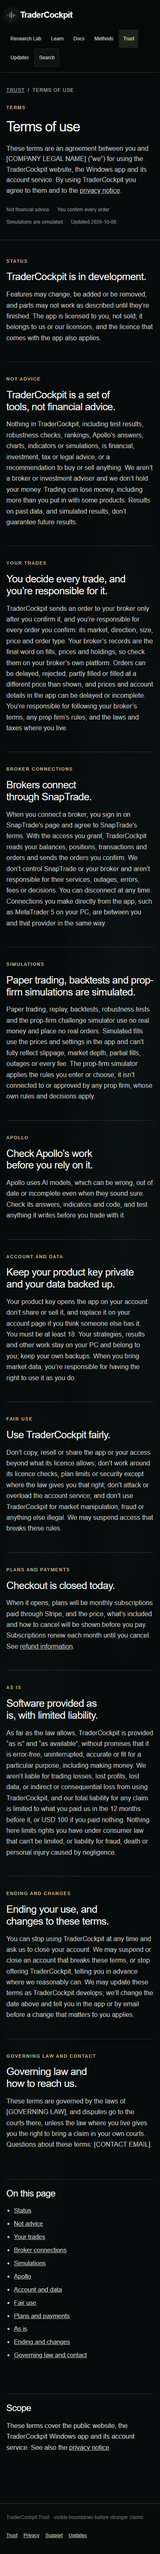
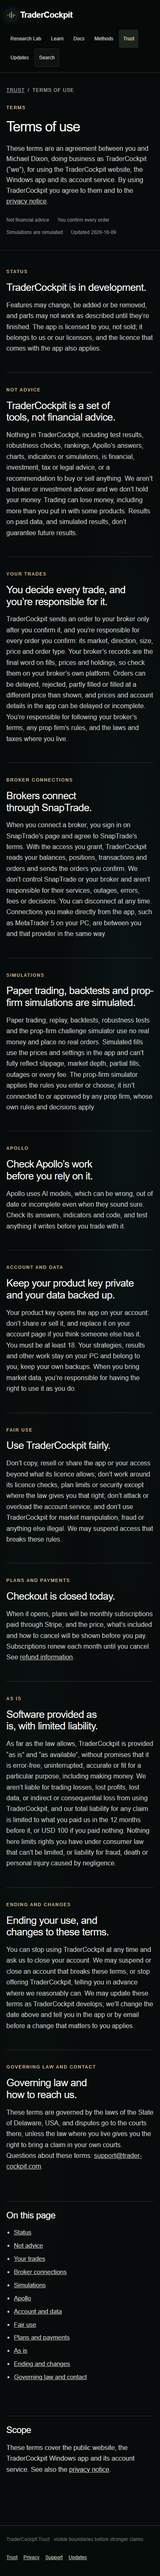
Legal pages: Michael Dixon d/b/a TraderCockpit, Delaware law, support address
Owner answers from 2026-10-09: the maker is Michael Dixon, doing
business as TraderCockpit, until an LLC is formed (one phrase to swap);
governing law is the State of Delaware, USA; contact is
support@trader-cockpit.com. Both pages dated 2026-10-09.

Changed region(s): [[0.0308, 0.0311, 0.9538, 0.9648], [0.5846, 0.9337, 0.6769, 0.9648]]

diff --git a/docs/trust/privacy.html b/docs/trust/privacy.html
@@ -1,7 +1,7 @@
 <!doctype html>
 <html lang="en"><head><meta charset="utf-8"><meta name="viewport" content="width=device-width,initial-scale=1"><link rel="icon" href="data:,"><title>Privacy Notice — TraderCockpit</title><meta name="description" content="What the TraderCockpit website, Windows app and account service collect, where it goes, and the choices you have."><link rel="canonical" href="https://trader-cockpit.com/trust/privacy.html"><link rel="stylesheet" href="../assets/site-v2.css"><link data-reference-shell="style" rel="stylesheet" href="../assets/reference-site/content.css" media="screen"><meta data-reference-shell="theme" name="theme-color" content="#080b0b"><script data-reference-shell="analytics" type="module" src="../assets/analytics.mjs"></script></head>
 <body data-reference-content="true"><a class="skip-link" href="#main">Skip to content</a><nav class="site-nav" aria-label="Primary"><div class="nav-inner"><a class="brand" href="../index.html"><span class="brand-mark" aria-hidden="true"></span>TraderCockpit</a><div class="nav-links"><a href="../research-lab.html">Research Lab</a><a href="../learn/">Learn</a><a href="../docs/">Docs</a><a href="../methods/">Methods</a><a href="./" aria-current="page">Trust</a><a href="../updates/">Updates</a></div></div></nav>
-<main id="main" tabindex="-1"><section class="article-hero"><div class="shell article-hero-inner"><div class="breadcrumb"><a href="./">Trust</a><span>/</span><span>Site privacy</span></div><span class="eyebrow">Privacy</span><h1>Your privacy at TraderCockpit</h1><p>This page explains what the TraderCockpit website, the Windows app and the account service collect, where it goes, and when those connections occur. [COMPANY LEGAL NAME] (&ldquo;we&rdquo;) makes TraderCockpit.</p><div class="article-meta"><span>Same-origin search</span><span>No email capture</span><span>YouTube only after action</span><span>Your work stays on your PC</span><span>Updated 2026-10-08</span></div></div></section>
+<main id="main" tabindex="-1"><section class="article-hero"><div class="shell article-hero-inner"><div class="breadcrumb"><a href="./">Trust</a><span>/</span><span>Site privacy</span></div><span class="eyebrow">Privacy</span><h1>Your privacy at TraderCockpit</h1><p>This page explains what the TraderCockpit website, the Windows app and the account service collect, where it goes, and when those connections occur. TraderCockpit is made by Michael Dixon, doing business as TraderCockpit (&ldquo;we&rdquo;).</p><div class="article-meta"><span>Same-origin search</span><span>No email capture</span><span>YouTube only after action</span><span>Your work stays on your PC</span><span>Updated 2026-10-09</span></div></div></section>
 <section class="section"><div class="shell"><div class="card-grid"><article class="depth-card"><span class="kicker">Browser storage</span><h2>Optional research notes use this browser's local storage.</h2><p>Ordinary browsing does not set cookies or analytics storage. The research-notes tool reads <code>localStorage</code> so it can restore a saved copy and writes only when you choose “Save on this device.” Those notes are not sent to a server by that tool. Clearing browser data can remove the saved copy. Normal page and asset requests still reach the site's hosting service.</p></article><article class="depth-card"><span class="kicker">Search</span><h2>Help search uses a same-origin static index.</h2><p>Search loads <code>search-index.v1.json</code> from this site. In-app search handoff uses a URL fragment so the query is not sent to a third-party search provider.</p></article><article class="depth-card"><span class="kicker">Analytics</span><h2>Plausible runs only when configured.</h2><p>Analytics is currently pending an operator account. When active, Plausible receives page views, referral and UTM information and Guide Click events to measure visits and onward reading. It does not collect an email address through this site. Referral attribution is unavailable until analytics is active.</p></article><article class="depth-card"><span class="kicker">Video</span><h2>YouTube is optional and click-to-load.</h2><p>No YouTube player is requested on ordinary lesson load. Choosing “Load video from YouTube” creates a privacy-enhanced <code>youtube-nocookie.com</code> embed; following the research-channel link also leaves this site for YouTube.</p></article></div></div></section>
-<section class="section"><div class="shell article-layout"><article class="article-main"><section class="article-section" id="waitlist-fields"><span class="kicker">Email capture</span><h2>This site has no signup form.</h2><p>Public email-capture forms and signup tracking have been retired. Ordinary browsing makes no requests to Kit. Existing subscriber records have not been deleted by this website change.</p><a class="deep-link" href="../learn/">Read the guides →</a></section><section class="article-section" id="app-data"><span class="kicker">The Windows app</span><h2>Your work stays on your PC.</h2><p>The Windows app and account service are in development; the sections below describe how they are built to handle your information, and this notice will be updated before release if that changes.</p><p>Strategies, Builder and Retester results, robustness tests, charts and layouts, data files and market history, paper trading accounts, your journal and your Apollo conversations are stored on your PC. We don&rsquo;t upload them and can&rsquo;t see them. The app has no usage analytics or tracking and doesn&rsquo;t send crash reports. If you ask for help, the app can make a support file on your PC that you read before deciding to send it; it holds app and account status, not your strategies, data or passwords.</p></section><section class="article-section" id="account"><span class="kicker">Your account</span><h2>Google sign-in on the account page; a product key on the desktop.</h2><p>You create an account on the account page by signing in with Google. We ask Google only for your email address and Google account ID. The desktop app never uses your Google sign-in. The account page sets two sign-in cookies, never used for tracking: one for ten minutes during sign-in, and one that keeps you signed in for at most 24 hours.</p><p>From the account page you create a product key and type it into the app once. The app keeps it on your PC, encrypted by Windows, and sends it only to our account service. The service stores a one-way fingerprint of the key and a masked copy, so it can recognise the key but not read it back. Replacing the key stops the old one working.</p></section><section class="article-section" id="apollo"><span class="kicker">Apollo</span><h2>Apollo sends your question to OpenRouter.</h2><p>Apollo&rsquo;s answers come from AI models reached through OpenRouter. The app sends the current conversation and anything you choose to attach, such as a file, image, web page or strategy details, and not the rest of your work. With your plan&rsquo;s credit, requests go through our account service, or straight from the app with a spending-limited key issued to your account; OpenRouter gets a one-way code, not your name or email. With your own OpenRouter key, requests go from your PC straight to OpenRouter under your own account. Voice recordings go to OpenRouter to be turned into text. For requests through our service we keep the reply, model and cost, so a retried request isn&rsquo;t run or charged twice; we don&rsquo;t keep your messages.</p></section><section class="article-section" id="brokers"><span class="kicker">Broker connections</span><h2>Brokers connect through SnapTrade, and orders are sent only when you confirm them.</h2><p>You sign in to your broker on SnapTrade&rsquo;s connection page in your browser, so TraderCockpit never sees your broker password. We register you with SnapTrade under a code made one-way from your account ID, not your name or email. With the access you grant, TraderCockpit reads your accounts&rsquo; balances, positions, transactions and orders and shows them in the app, and sends the orders you confirm on a chart to your broker.</p><p>Our account service keeps an encrypted SnapTrade access secret (encrypted with Google Cloud&rsquo;s key service), which broker and accounts are connected, and their status. Balances, positions, transactions and orders pass through to your PC; we keep only when each update ran, how many items it had and a fingerprint to spot changes. For each order you confirm we keep the order details, your broker&rsquo;s reply and order number, and timing, so an order is never sent twice. You can disconnect at any time. Brokers and data feeds you connect directly, such as MetaTrader 5 on your PC, talk to the app on your PC; any token you enter is encrypted by Windows and sent only to that service.</p></section><section class="article-section" id="payments"><span class="kicker">Payments</span><h2>Stripe handles card payments.</h2><p>Checkout is closed today. When it opens, you enter card details on Stripe&rsquo;s checkout page and we never see your card number. We send Stripe your email address, account ID and the plan or Apollo credit you choose, and keep your Stripe customer and subscription IDs, plan, billing period, Apollo credit, and a record of charges and Apollo usage.</p></section><section class="article-section" id="records"><span class="kicker">Account records</span><h2>What our account service keeps, and who else is involved.</h2><p>The account service runs on Google Cloud in the United States (Cloud Run, with records in Firestore). It keeps your account (email address, Google account ID, date created, plan and access status), the product key fingerprint, sign-in sessions, and the billing, Apollo, broker connection and order records described above. We share information only with the services that run TraderCockpit: Google (hosting, sign-in and storage), Stripe, OpenRouter and the AI model provider it routes to, and SnapTrade and the broker you connect. We don&rsquo;t sell personal information or use it for advertising. These services may process information in the United States, Canada and other countries, under their own privacy terms.</p></section><section class="article-section" id="rights"><span class="kicker">Your choices</span><h2>See, export or delete your account information.</h2><p>You can disconnect brokers, replace your product key and sign out at any time. Account, connection and order records are kept while your account is open. Ask us to close your account and we delete those records, except billing records the law requires us to keep, for as long as it requires. Depending on where you live, you may also ask to see, correct, export or delete the personal information we hold, or object to how we use it: email [CONTACT EMAIL] and we&rsquo;ll reply within one month. TraderCockpit is for adults and isn&rsquo;t meant for anyone under 18.</p></section><section class="article-section" id="third-parties"><span class="kicker">Third-party services</span><h2>Third-party services receive data only when you use them.</h2><p>Configured analytics, loading YouTube, or opening an external link sends a request to that provider. Their own privacy terms then apply.</p></section><section class="article-section" id="changes"><span class="kicker">Changes to this page</span><h2>We will update this notice when the site adds a new data-sharing integration.</h2><p>If TraderCockpit adds a new form processor, analytics service, media host, checkout provider, or similar integration, this page will identify it.</p><a class="deep-link" href="../updates/">Check product updates &rarr;</a></section></article><aside class="article-aside" aria-label="Site privacy guide"><div class="side-panel"><h2>On this page</h2><ul><li><a href="#waitlist-fields">Email capture</a></li><li><a href="#app-data">The Windows app</a></li><li><a href="#account">Your account</a></li><li><a href="#apollo">Apollo</a></li><li><a href="#brokers">Broker connections</a></li><li><a href="#payments">Payments</a></li><li><a href="#records">Account records</a></li><li><a href="#rights">Your choices</a></li><li><a href="#third-parties">Third parties</a></li><li><a href="#changes">Changes to this page</a></li></ul></div><div class="side-panel"><h2>Scope</h2><p class="micro">This page covers the public website, the TraderCockpit Windows app and its account service. See also the <a href="terms.html">terms of use</a>.</p></div></aside></div></section></main>
+<section class="section"><div class="shell article-layout"><article class="article-main"><section class="article-section" id="waitlist-fields"><span class="kicker">Email capture</span><h2>This site has no signup form.</h2><p>Public email-capture forms and signup tracking have been retired. Ordinary browsing makes no requests to Kit. Existing subscriber records have not been deleted by this website change.</p><a class="deep-link" href="../learn/">Read the guides →</a></section><section class="article-section" id="app-data"><span class="kicker">The Windows app</span><h2>Your work stays on your PC.</h2><p>The Windows app and account service are in development; the sections below describe how they are built to handle your information, and this notice will be updated before release if that changes.</p><p>Strategies, Builder and Retester results, robustness tests, charts and layouts, data files and market history, paper trading accounts, your journal and your Apollo conversations are stored on your PC. We don&rsquo;t upload them and can&rsquo;t see them. The app has no usage analytics or tracking and doesn&rsquo;t send crash reports. If you ask for help, the app can make a support file on your PC that you read before deciding to send it; it holds app and account status, not your strategies, data or passwords.</p></section><section class="article-section" id="account"><span class="kicker">Your account</span><h2>Google sign-in on the account page; a product key on the desktop.</h2><p>You create an account on the account page by signing in with Google. We ask Google only for your email address and Google account ID. The desktop app never uses your Google sign-in. The account page sets two sign-in cookies, never used for tracking: one for ten minutes during sign-in, and one that keeps you signed in for at most 24 hours.</p><p>From the account page you create a product key and type it into the app once. The app keeps it on your PC, encrypted by Windows, and sends it only to our account service. The service stores a one-way fingerprint of the key and a masked copy, so it can recognise the key but not read it back. Replacing the key stops the old one working.</p></section><section class="article-section" id="apollo"><span class="kicker">Apollo</span><h2>Apollo sends your question to OpenRouter.</h2><p>Apollo&rsquo;s answers come from AI models reached through OpenRouter. The app sends the current conversation and anything you choose to attach, such as a file, image, web page or strategy details, and not the rest of your work. With your plan&rsquo;s credit, requests go through our account service, or straight from the app with a spending-limited key issued to your account; OpenRouter gets a one-way code, not your name or email. With your own OpenRouter key, requests go from your PC straight to OpenRouter under your own account. Voice recordings go to OpenRouter to be turned into text. For requests through our service we keep the reply, model and cost, so a retried request isn&rsquo;t run or charged twice; we don&rsquo;t keep your messages.</p></section><section class="article-section" id="brokers"><span class="kicker">Broker connections</span><h2>Brokers connect through SnapTrade, and orders are sent only when you confirm them.</h2><p>You sign in to your broker on SnapTrade&rsquo;s connection page in your browser, so TraderCockpit never sees your broker password. We register you with SnapTrade under a code made one-way from your account ID, not your name or email. With the access you grant, TraderCockpit reads your accounts&rsquo; balances, positions, transactions and orders and shows them in the app, and sends the orders you confirm on a chart to your broker.</p><p>Our account service keeps an encrypted SnapTrade access secret (encrypted with Google Cloud&rsquo;s key service), which broker and accounts are connected, and their status. Balances, positions, transactions and orders pass through to your PC; we keep only when each update ran, how many items it had and a fingerprint to spot changes. For each order you confirm we keep the order details, your broker&rsquo;s reply and order number, and timing, so an order is never sent twice. You can disconnect at any time. Brokers and data feeds you connect directly, such as MetaTrader 5 on your PC, talk to the app on your PC; any token you enter is encrypted by Windows and sent only to that service.</p></section><section class="article-section" id="payments"><span class="kicker">Payments</span><h2>Stripe handles card payments.</h2><p>Checkout is closed today. When it opens, you enter card details on Stripe&rsquo;s checkout page and we never see your card number. We send Stripe your email address, account ID and the plan or Apollo credit you choose, and keep your Stripe customer and subscription IDs, plan, billing period, Apollo credit, and a record of charges and Apollo usage.</p></section><section class="article-section" id="records"><span class="kicker">Account records</span><h2>What our account service keeps, and who else is involved.</h2><p>The account service runs on Google Cloud in the United States (Cloud Run, with records in Firestore). It keeps your account (email address, Google account ID, date created, plan and access status), the product key fingerprint, sign-in sessions, and the billing, Apollo, broker connection and order records described above. We share information only with the services that run TraderCockpit: Google (hosting, sign-in and storage), Stripe, OpenRouter and the AI model provider it routes to, and SnapTrade and the broker you connect. We don&rsquo;t sell personal information or use it for advertising. These services may process information in the United States, Canada and other countries, under their own privacy terms.</p></section><section class="article-section" id="rights"><span class="kicker">Your choices</span><h2>See, export or delete your account information.</h2><p>You can disconnect brokers, replace your product key and sign out at any time. Account, connection and order records are kept while your account is open. Ask us to close your account and we delete those records, except billing records the law requires us to keep, for as long as it requires. Depending on where you live, you may also ask to see, correct, export or delete the personal information we hold, or object to how we use it: email <a href="mailto:support@trader-cockpit.com">support@trader-cockpit.com</a> and we&rsquo;ll reply within one month. TraderCockpit is for adults and isn&rsquo;t meant for anyone under 18.</p></section><section class="article-section" id="third-parties"><span class="kicker">Third-party services</span><h2>Third-party services receive data only when you use them.</h2><p>Configured analytics, loading YouTube, or opening an external link sends a request to that provider. Their own privacy terms then apply.</p></section><section class="article-section" id="changes"><span class="kicker">Changes to this page</span><h2>We will update this notice when the site adds a new data-sharing integration.</h2><p>If TraderCockpit adds a new form processor, analytics service, media host, checkout provider, or similar integration, this page will identify it.</p><a class="deep-link" href="../updates/">Check product updates &rarr;</a></section></article><aside class="article-aside" aria-label="Site privacy guide"><div class="side-panel"><h2>On this page</h2><ul><li><a href="#waitlist-fields">Email capture</a></li><li><a href="#app-data">The Windows app</a></li><li><a href="#account">Your account</a></li><li><a href="#apollo">Apollo</a></li><li><a href="#brokers">Broker connections</a></li><li><a href="#payments">Payments</a></li><li><a href="#records">Account records</a></li><li><a href="#rights">Your choices</a></li><li><a href="#third-parties">Third parties</a></li><li><a href="#changes">Changes to this page</a></li></ul></div><div class="side-panel"><h2>Scope</h2><p class="micro">This page covers the public website, the TraderCockpit Windows app and its account service. See also the <a href="terms.html">terms of use</a>.</p></div></aside></div></section></main>
 <footer><div class="footer-inner"><div>TraderCockpit Trust · visible boundaries before stronger claims.</div><div class="footer-links"><a href="./">Trust</a><a href="terms.html">Terms</a><a href="../support/">Support</a><a href="../updates/">Updates</a></div></div></footer><script src="../assets/site-search.js" defer></script></body></html>

diff --git a/docs/trust/terms.html b/docs/trust/terms.html
@@ -1,6 +1,6 @@
 <!doctype html>
 <html lang="en"><head><meta charset="utf-8"><meta name="viewport" content="width=device-width,initial-scale=1"><link rel="icon" href="data:,"><title>Terms of Use — TraderCockpit</title><meta name="description" content="The plain-language terms for using the TraderCockpit website, Windows app and account service: not financial advice, your trades are yours, broker connections through SnapTrade, and simulations are simulated."><link rel="canonical" href="https://trader-cockpit.com/trust/terms.html"><link rel="stylesheet" href="../assets/site-v2.css"><link data-reference-shell="style" rel="stylesheet" href="../assets/reference-site/content.css" media="screen"><meta data-reference-shell="theme" name="theme-color" content="#080b0b"><script data-reference-shell="analytics" type="module" src="../assets/analytics.mjs"></script></head>
 <body data-reference-content="true"><a class="skip-link" href="#main">Skip to content</a><nav class="site-nav" aria-label="Primary"><div class="nav-inner"><a class="brand" href="../index.html"><span class="brand-mark" aria-hidden="true"></span>TraderCockpit</a><div class="nav-links"><a href="../research-lab.html">Research Lab</a><a href="../learn/">Learn</a><a href="../docs/">Docs</a><a href="../methods/">Methods</a><a href="./" aria-current="page">Trust</a><a href="../updates/">Updates</a></div></div></nav>
-<main id="main" tabindex="-1"><section class="article-hero"><div class="shell article-hero-inner"><div class="breadcrumb"><a href="./">Trust</a><span>/</span><span>Terms of use</span></div><span class="eyebrow">Terms</span><h1>Terms of use</h1><p>These terms are an agreement between you and [COMPANY LEGAL NAME] (&ldquo;we&rdquo;) for using the TraderCockpit website, the Windows app and its account service. By using TraderCockpit you agree to them and to the <a href="privacy.html">privacy notice</a>.</p><div class="article-meta"><span>Not financial advice</span><span>You confirm every order</span><span>Simulations are simulated</span><span>Updated 2026-10-08</span></div></div></section>
-<section class="section"><div class="shell article-layout"><article class="article-main"><section class="article-section" id="status"><span class="kicker">Status</span><h2>TraderCockpit is in development.</h2><p>Features may change, be added or be removed, and parts may not work as described until they&rsquo;re finished. The app is licensed to you, not sold; it belongs to us or our licensors, and the licence that comes with the app also applies.</p></section><section class="article-section" id="advice"><span class="kicker">Not advice</span><h2>TraderCockpit is a set of tools, not financial advice.</h2><p>Nothing in TraderCockpit, including test results, robustness checks, rankings, Apollo&rsquo;s answers, charts, indicators or simulations, is financial, investment, tax or legal advice, or a recommendation to buy or sell anything. We aren&rsquo;t a broker or investment adviser and we don&rsquo;t hold your money. Trading can lose money, including more than you put in with some products. Results on past data, and simulated results, don&rsquo;t guarantee future results.</p></section><section class="article-section" id="trades"><span class="kicker">Your trades</span><h2>You decide every trade, and you&rsquo;re responsible for it.</h2><p>TraderCockpit sends an order to your broker only after you confirm it, and you&rsquo;re responsible for every order you confirm: its market, direction, size, price and order type. Your broker&rsquo;s records are the final word on fills, prices and holdings, so check them on your broker&rsquo;s own platform. Orders can be delayed, rejected, partly filled or filled at a different price than shown, and prices and account details in the app can be delayed or incomplete. You&rsquo;re responsible for following your broker&rsquo;s terms, any prop firm&rsquo;s rules, and the laws and taxes where you live.</p></section><section class="article-section" id="brokers"><span class="kicker">Broker connections</span><h2>Brokers connect through SnapTrade.</h2><p>When you connect a broker, you sign in on SnapTrade&rsquo;s page and agree to SnapTrade&rsquo;s terms. With the access you grant, TraderCockpit reads your balances, positions, transactions and orders and sends the orders you confirm. We don&rsquo;t control SnapTrade or your broker and aren&rsquo;t responsible for their services, outages, errors, fees or decisions. You can disconnect at any time. Connections you make directly from the app, such as MetaTrader 5 on your PC, are between you and that provider in the same way.</p></section><section class="article-section" id="simulated"><span class="kicker">Simulations</span><h2>Paper trading, backtests and prop-firm simulations are simulated.</h2><p>Paper trading, replay, backtests, robustness tests and the prop-firm challenge simulator use no real money and place no real orders. Simulated fills use the prices and settings in the app and can&rsquo;t fully reflect slippage, market depth, partial fills, outages or every fee. The prop-firm simulator applies the rules you enter or choose; it isn&rsquo;t connected to or approved by any prop firm, whose own rules and decisions apply.</p></section><section class="article-section" id="apollo"><span class="kicker">Apollo</span><h2>Check Apollo&rsquo;s work before you rely on it.</h2><p>Apollo uses AI models, which can be wrong, out of date or incomplete even when they sound sure. Check its answers, indicators and code, and test anything it writes before you trade with it.</p></section><section class="article-section" id="account"><span class="kicker">Account and data</span><h2>Keep your product key private and your data backed up.</h2><p>Your product key opens the app on your account: don&rsquo;t share or sell it, and replace it on your account page if you think someone else has it. You must be at least 18. Your strategies, results and other work stay on your PC and belong to you; keep your own backups. When you bring market data, you&rsquo;re responsible for having the right to use it as you do.</p></section><section class="article-section" id="fair-use"><span class="kicker">Fair use</span><h2>Use TraderCockpit fairly.</h2><p>Don&rsquo;t copy, resell or share the app or your access beyond what its licence allows; don&rsquo;t work around its licence checks, plan limits or security except where the law gives you that right; don&rsquo;t attack or overload the account service; and don&rsquo;t use TraderCockpit for market manipulation, fraud or anything else illegal. We may suspend access that breaks these rules.</p></section><section class="article-section" id="payments"><span class="kicker">Plans and payments</span><h2>Checkout is closed today.</h2><p>When it opens, plans will be monthly subscriptions paid through Stripe, and the price, what&rsquo;s included and how to cancel will be shown before you pay. Subscriptions renew each month until you cancel. See <a href="../refund-policy.html">refund information</a>.</p></section><section class="article-section" id="as-is"><span class="kicker">As is</span><h2>Software provided as is, with limited liability.</h2><p>As far as the law allows, TraderCockpit is provided &ldquo;as is&rdquo; and &ldquo;as available&rdquo;, without promises that it is error-free, uninterrupted, accurate or fit for a particular purpose, including making money. We aren&rsquo;t liable for trading losses, lost profits, lost data, or indirect or consequential loss from using TraderCockpit, and our total liability for any claim is limited to what you paid us in the 12 months before it, or USD 100 if you paid nothing. Nothing here limits rights you have under consumer law that can&rsquo;t be limited, or liability for fraud, death or personal injury caused by negligence.</p></section><section class="article-section" id="ending"><span class="kicker">Ending and changes</span><h2>Ending your use, and changes to these terms.</h2><p>You can stop using TraderCockpit at any time and ask us to close your account. We may suspend or close an account that breaks these terms, or stop offering TraderCockpit, telling you in advance where we reasonably can. We may update these terms as TraderCockpit develops; we&rsquo;ll change the date above and tell you in the app or by email before a change that matters to you applies.</p></section><section class="article-section" id="law"><span class="kicker">Governing law and contact</span><h2>Governing law and how to reach us.</h2><p>These terms are governed by the laws of [GOVERNING LAW], and disputes go to the courts there, unless the law where you live gives you the right to bring a claim in your own courts. Questions about these terms: [CONTACT EMAIL].</p></section></article><aside class="article-aside" aria-label="Terms guide"><div class="side-panel"><h2>On this page</h2><ul><li><a href="#status">Status</a></li><li><a href="#advice">Not advice</a></li><li><a href="#trades">Your trades</a></li><li><a href="#brokers">Broker connections</a></li><li><a href="#simulated">Simulations</a></li><li><a href="#apollo">Apollo</a></li><li><a href="#account">Account and data</a></li><li><a href="#fair-use">Fair use</a></li><li><a href="#payments">Plans and payments</a></li><li><a href="#as-is">As is</a></li><li><a href="#ending">Ending and changes</a></li><li><a href="#law">Governing law and contact</a></li></ul></div><div class="side-panel"><h2>Scope</h2><p class="micro">These terms cover the public website, the TraderCockpit Windows app and its account service. See also the <a href="privacy.html">privacy notice</a>.</p></div></aside></div></section></main>
+<main id="main" tabindex="-1"><section class="article-hero"><div class="shell article-hero-inner"><div class="breadcrumb"><a href="./">Trust</a><span>/</span><span>Terms of use</span></div><span class="eyebrow">Terms</span><h1>Terms of use</h1><p>These terms are an agreement between you and Michael Dixon, doing business as TraderCockpit (&ldquo;we&rdquo;), for using the TraderCockpit website, the Windows app and its account service. By using TraderCockpit you agree to them and to the <a href="privacy.html">privacy notice</a>.</p><div class="article-meta"><span>Not financial advice</span><span>You confirm every order</span><span>Simulations are simulated</span><span>Updated 2026-10-09</span></div></div></section>
+<section class="section"><div class="shell article-layout"><article class="article-main"><section class="article-section" id="status"><span class="kicker">Status</span><h2>TraderCockpit is in development.</h2><p>Features may change, be added or be removed, and parts may not work as described until they&rsquo;re finished. The app is licensed to you, not sold; it belongs to us or our licensors, and the licence that comes with the app also applies.</p></section><section class="article-section" id="advice"><span class="kicker">Not advice</span><h2>TraderCockpit is a set of tools, not financial advice.</h2><p>Nothing in TraderCockpit, including test results, robustness checks, rankings, Apollo&rsquo;s answers, charts, indicators or simulations, is financial, investment, tax or legal advice, or a recommendation to buy or sell anything. We aren&rsquo;t a broker or investment adviser and we don&rsquo;t hold your money. Trading can lose money, including more than you put in with some products. Results on past data, and simulated results, don&rsquo;t guarantee future results.</p></section><section class="article-section" id="trades"><span class="kicker">Your trades</span><h2>You decide every trade, and you&rsquo;re responsible for it.</h2><p>TraderCockpit sends an order to your broker only after you confirm it, and you&rsquo;re responsible for every order you confirm: its market, direction, size, price and order type. Your broker&rsquo;s records are the final word on fills, prices and holdings, so check them on your broker&rsquo;s own platform. Orders can be delayed, rejected, partly filled or filled at a different price than shown, and prices and account details in the app can be delayed or incomplete. You&rsquo;re responsible for following your broker&rsquo;s terms, any prop firm&rsquo;s rules, and the laws and taxes where you live.</p></section><section class="article-section" id="brokers"><span class="kicker">Broker connections</span><h2>Brokers connect through SnapTrade.</h2><p>When you connect a broker, you sign in on SnapTrade&rsquo;s page and agree to SnapTrade&rsquo;s terms. With the access you grant, TraderCockpit reads your balances, positions, transactions and orders and sends the orders you confirm. We don&rsquo;t control SnapTrade or your broker and aren&rsquo;t responsible for their services, outages, errors, fees or decisions. You can disconnect at any time. Connections you make directly from the app, such as MetaTrader 5 on your PC, are between you and that provider in the same way.</p></section><section class="article-section" id="simulated"><span class="kicker">Simulations</span><h2>Paper trading, backtests and prop-firm simulations are simulated.</h2><p>Paper trading, replay, backtests, robustness tests and the prop-firm challenge simulator use no real money and place no real orders. Simulated fills use the prices and settings in the app and can&rsquo;t fully reflect slippage, market depth, partial fills, outages or every fee. The prop-firm simulator applies the rules you enter or choose; it isn&rsquo;t connected to or approved by any prop firm, whose own rules and decisions apply.</p></section><section class="article-section" id="apollo"><span class="kicker">Apollo</span><h2>Check Apollo&rsquo;s work before you rely on it.</h2><p>Apollo uses AI models, which can be wrong, out of date or incomplete even when they sound sure. Check its answers, indicators and code, and test anything it writes before you trade with it.</p></section><section class="article-section" id="account"><span class="kicker">Account and data</span><h2>Keep your product key private and your data backed up.</h2><p>Your product key opens the app on your account: don&rsquo;t share or sell it, and replace it on your account page if you think someone else has it. You must be at least 18. Your strategies, results and other work stay on your PC and belong to you; keep your own backups. When you bring market data, you&rsquo;re responsible for having the right to use it as you do.</p></section><section class="article-section" id="fair-use"><span class="kicker">Fair use</span><h2>Use TraderCockpit fairly.</h2><p>Don&rsquo;t copy, resell or share the app or your access beyond what its licence allows; don&rsquo;t work around its licence checks, plan limits or security except where the law gives you that right; don&rsquo;t attack or overload the account service; and don&rsquo;t use TraderCockpit for market manipulation, fraud or anything else illegal. We may suspend access that breaks these rules.</p></section><section class="article-section" id="payments"><span class="kicker">Plans and payments</span><h2>Checkout is closed today.</h2><p>When it opens, plans will be monthly subscriptions paid through Stripe, and the price, what&rsquo;s included and how to cancel will be shown before you pay. Subscriptions renew each month until you cancel. See <a href="../refund-policy.html">refund information</a>.</p></section><section class="article-section" id="as-is"><span class="kicker">As is</span><h2>Software provided as is, with limited liability.</h2><p>As far as the law allows, TraderCockpit is provided &ldquo;as is&rdquo; and &ldquo;as available&rdquo;, without promises that it is error-free, uninterrupted, accurate or fit for a particular purpose, including making money. We aren&rsquo;t liable for trading losses, lost profits, lost data, or indirect or consequential loss from using TraderCockpit, and our total liability for any claim is limited to what you paid us in the 12 months before it, or USD 100 if you paid nothing. Nothing here limits rights you have under consumer law that can&rsquo;t be limited, or liability for fraud, death or personal injury caused by negligence.</p></section><section class="article-section" id="ending"><span class="kicker">Ending and changes</span><h2>Ending your use, and changes to these terms.</h2><p>You can stop using TraderCockpit at any time and ask us to close your account. We may suspend or close an account that breaks these terms, or stop offering TraderCockpit, telling you in advance where we reasonably can. We may update these terms as TraderCockpit develops; we&rsquo;ll change the date above and tell you in the app or by email before a change that matters to you applies.</p></section><section class="article-section" id="law"><span class="kicker">Governing law and contact</span><h2>Governing law and how to reach us.</h2><p>These terms are governed by the laws of the State of Delaware, USA, and disputes go to the courts there, unless the law where you live gives you the right to bring a claim in your own courts. Questions about these terms: <a href="mailto:support@trader-cockpit.com">support@trader-cockpit.com</a>.</p></section></article><aside class="article-aside" aria-label="Terms guide"><div class="side-panel"><h2>On this page</h2><ul><li><a href="#status">Status</a></li><li><a href="#advice">Not advice</a></li><li><a href="#trades">Your trades</a></li><li><a href="#brokers">Broker connections</a></li><li><a href="#simulated">Simulations</a></li><li><a href="#apollo">Apollo</a></li><li><a href="#account">Account and data</a></li><li><a href="#fair-use">Fair use</a></li><li><a href="#payments">Plans and payments</a></li><li><a href="#as-is">As is</a></li><li><a href="#ending">Ending and changes</a></li><li><a href="#law">Governing law and contact</a></li></ul></div><div class="side-panel"><h2>Scope</h2><p class="micro">These terms cover the public website, the TraderCockpit Windows app and its account service. See also the <a href="privacy.html">privacy notice</a>.</p></div></aside></div></section></main>
 <footer><div class="footer-inner"><div>TraderCockpit Trust · visible boundaries before stronger claims.</div><div class="footer-links"><a href="./">Trust</a><a href="privacy.html">Privacy</a><a href="../support/">Support</a><a href="../updates/">Updates</a></div></div></footer><script src="../assets/site-search.js" defer></script></body></html>
